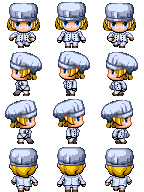
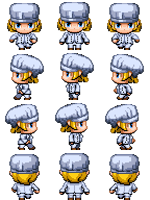
Resize character size for a correct usage

diff --git a/MasterChefInfo/MasterChefInfo/Form1.cs b/MasterChefInfo/MasterChefInfo/Form1.cs
@@ -22,6 +22,22 @@ namespace MasterChefInfo
             MainDrawingArea.BackgroundImageLayout = ImageLayout.Stretch;
             mySpriteController = new SpriteController(MainDrawingArea);
 
+            SpriteLibrary.Sprite sectionChef = new SpriteLibrary.Sprite(new Point(0, 50), mySpriteController,
+                Properties.Resources.ChefMale, 50, 50, 500, 3);
+            sectionChef.SetName("Chef de section");
+            sectionChef.SetSize(new Size(24, 24));
+            sectionChef.PutBaseImageLocation(new Point(240, 240));
+            sectionChef.AutomaticallyMoves = true;
+            sectionChef.CannotMoveOutsideBox = true;
+            //sectionChef.SetSpriteDirectionDegrees(180);
+            sectionChef.MovementSpeed = 2;
+            sectionChef.MoveTo(new Point(72, 239));
+            sectionChef.MoveTo(new Point(72, 192));
+            sectionChef.ChangeAnimation(3);
+            sectionChef.AddAnimation(new Point(50, 150), Properties.Resources.ChefMale, 50, 50, 500, 1);
+            sectionChef.ChangeAnimation(1);
+
+
         }
 
         private void pictureBox1_Click(object sender, EventArgs e)
